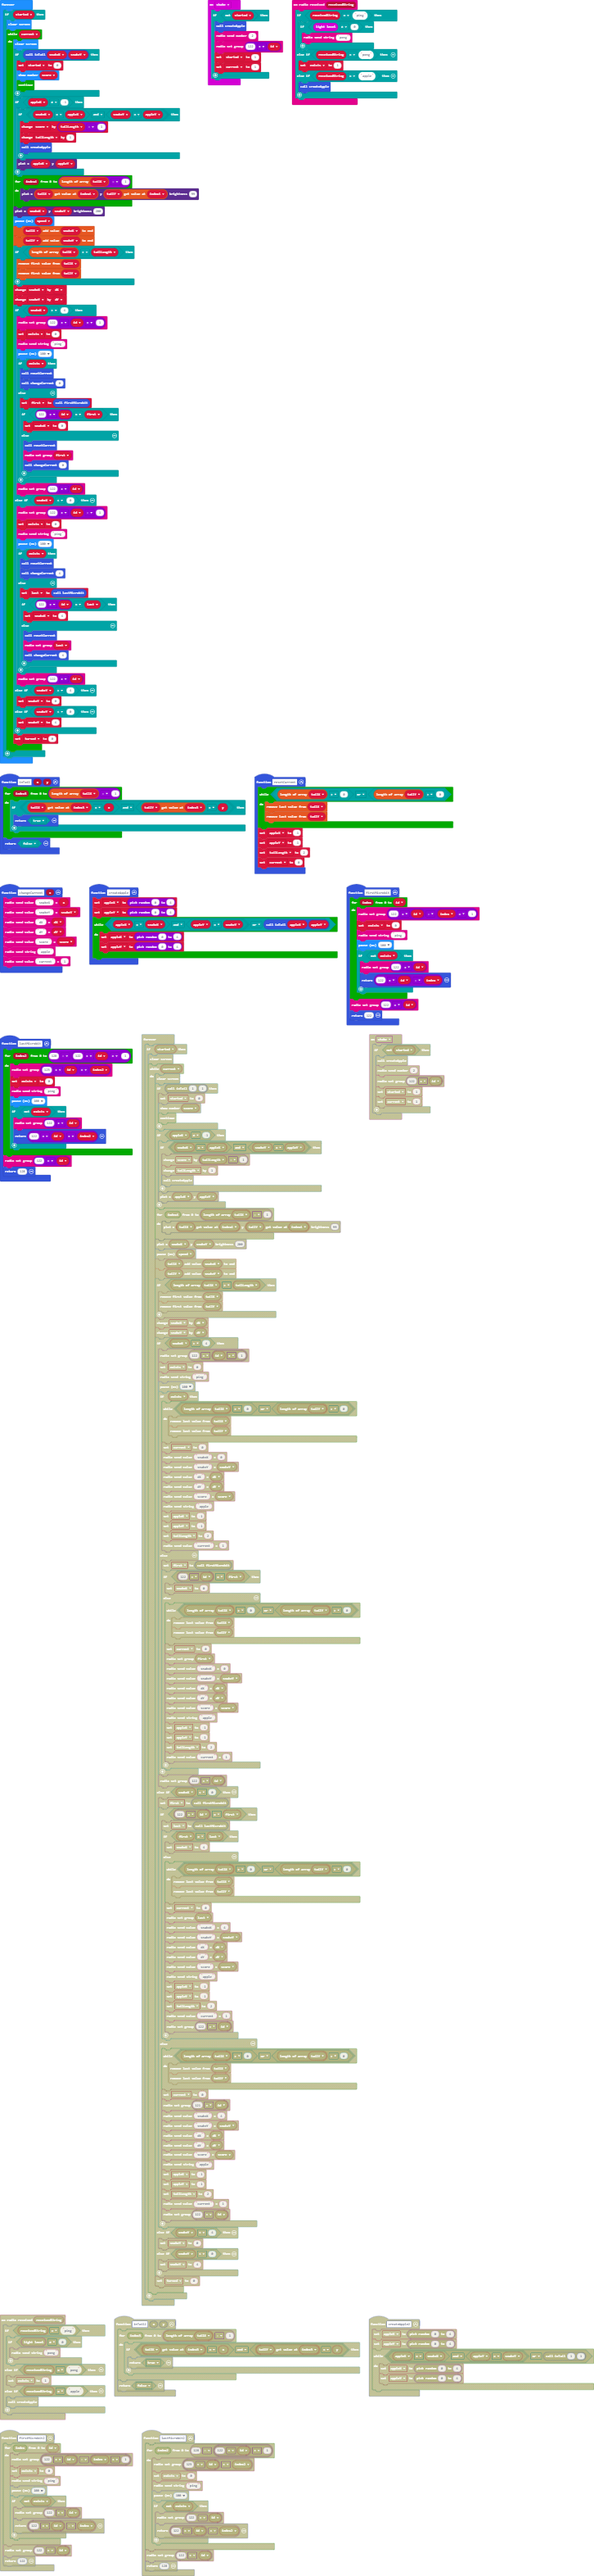
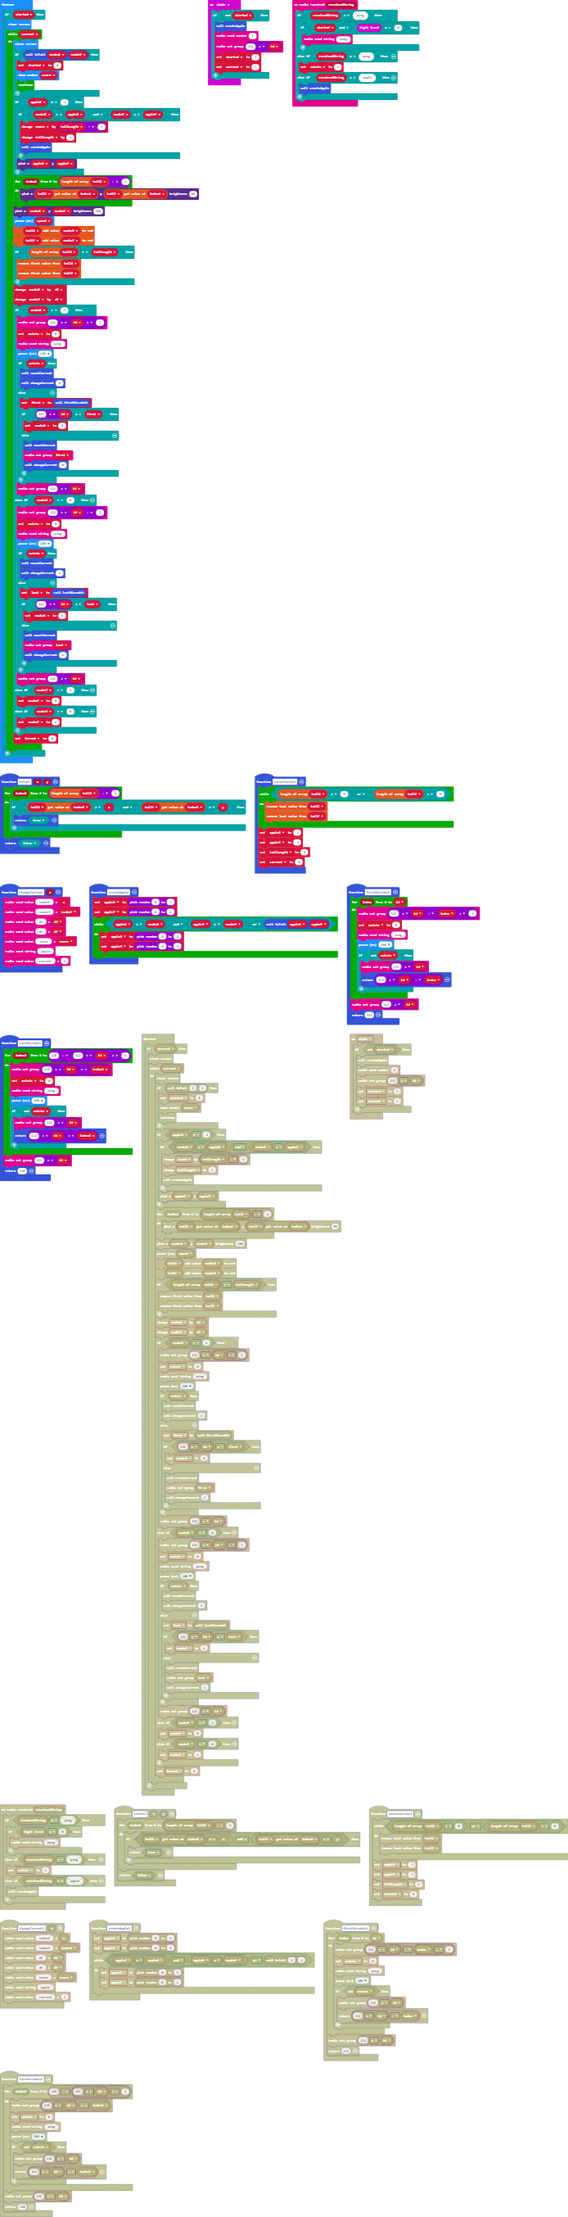
only respond with pong if started

Changed region(s): [[0.0, 0.0, 1.0, 1.0], [0.3329, 0.0, 0.7565, 0.0621]]

diff --git a/main.ts b/main.ts
@@ -95,7 +95,7 @@ function createApple () {
 }
 radio.onReceivedString(function (receivedString) {
     if (receivedString == "ping") {
-        if (input.lightLevel() != 0) {
+        if (started && input.lightLevel() != 0) {
             radio.sendString("pong")
         }
     } else if (receivedString == "pong") {
